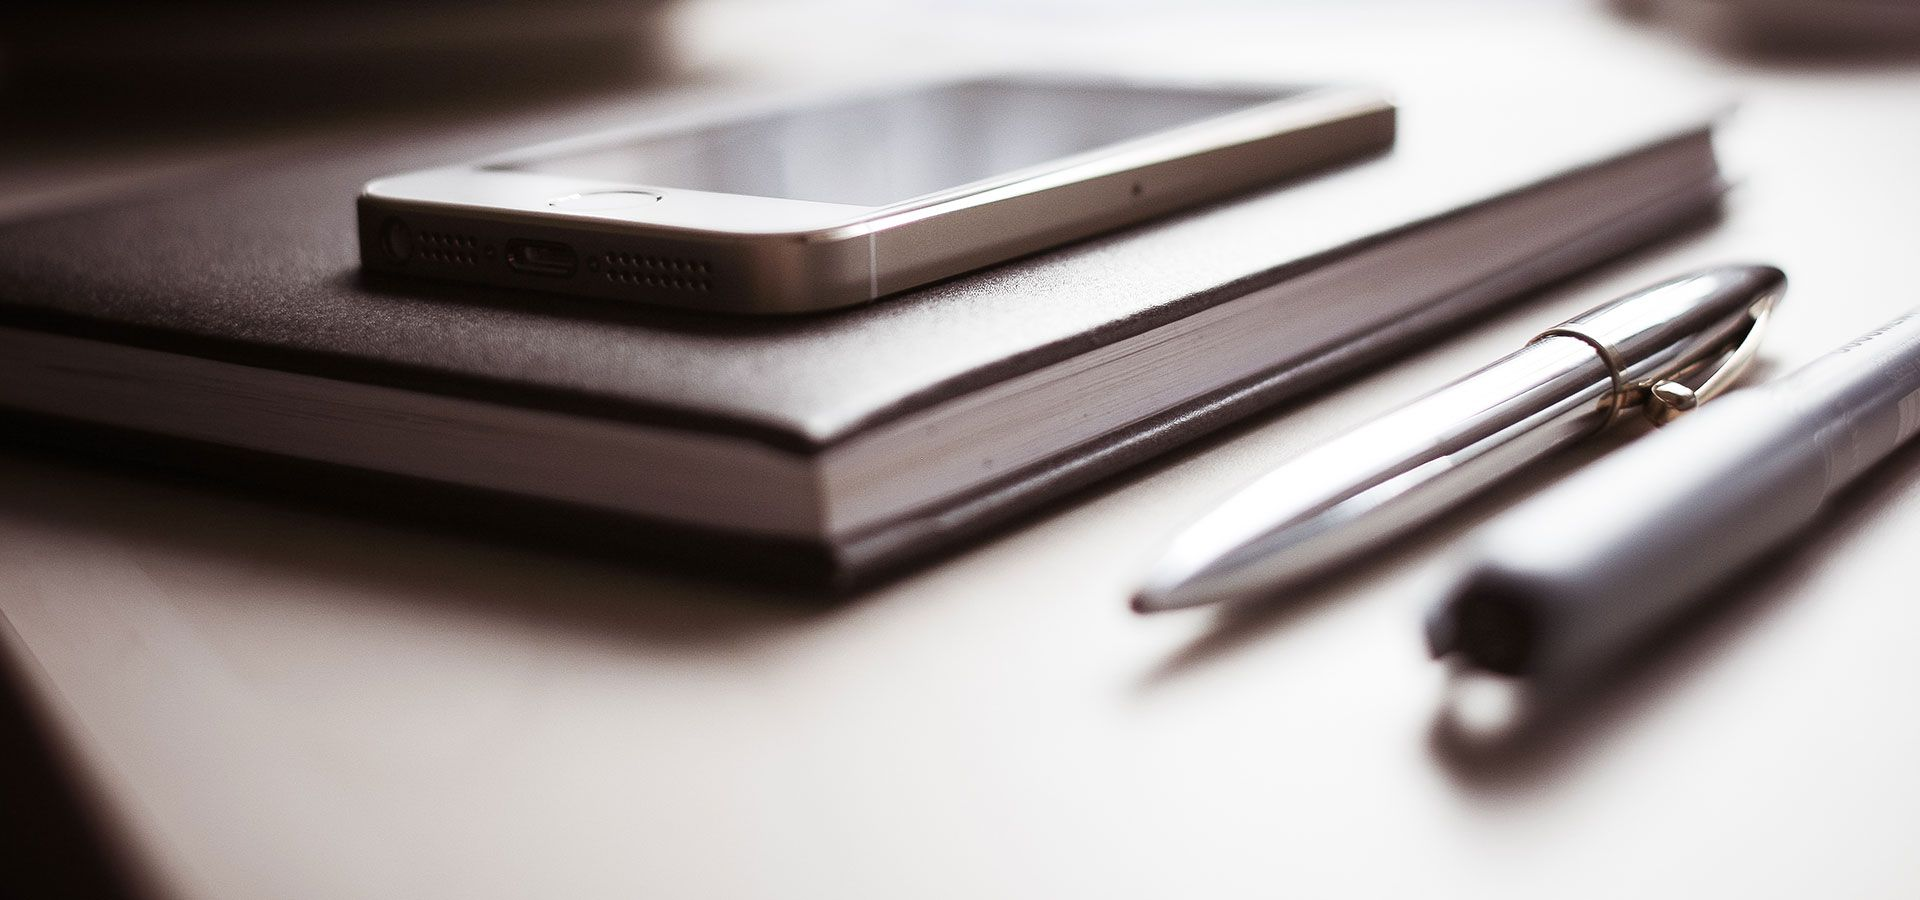
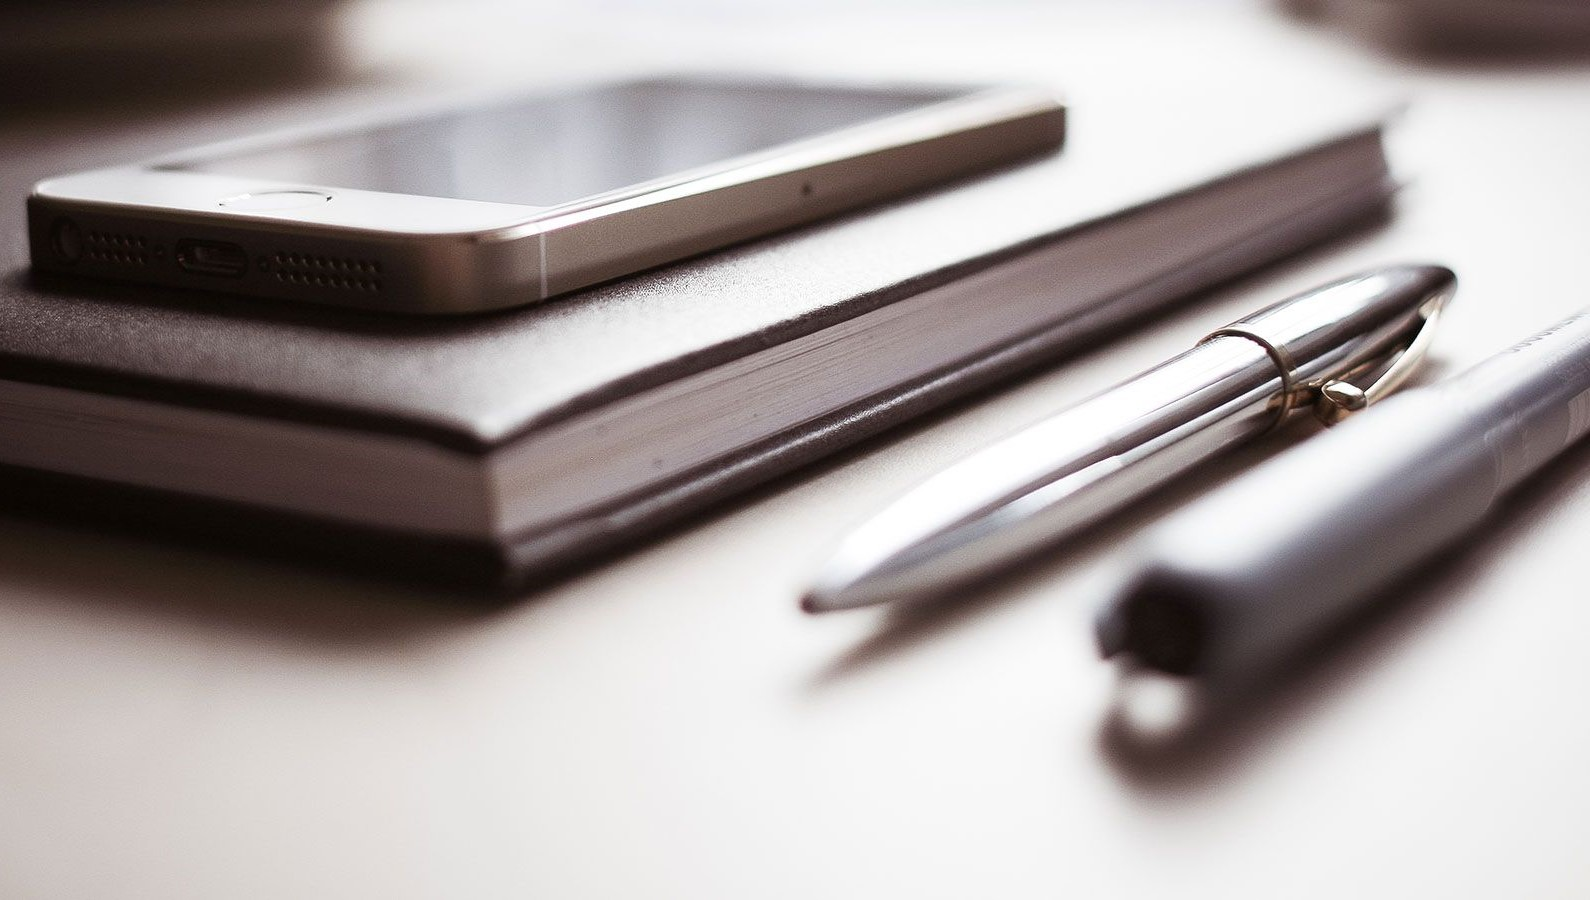
bg16 aspect change, css fixed

diff --git a/NewApogyWebSite/Content/assets/css/blocks.css b/NewApogyWebSite/Content/assets/css/blocks.css
@@ -2643,7 +2643,7 @@
   overflow: hidden;
   text-align: center;
   position: relative;
-  background: url(/Content/assets/img/bg/19.jpg) 50% 0 fixed;
+  background: url(/Content/assets/img/bg/16.jpg) 50% 0 fixed;
 }
 
 .parallax-counter-v4:after {
